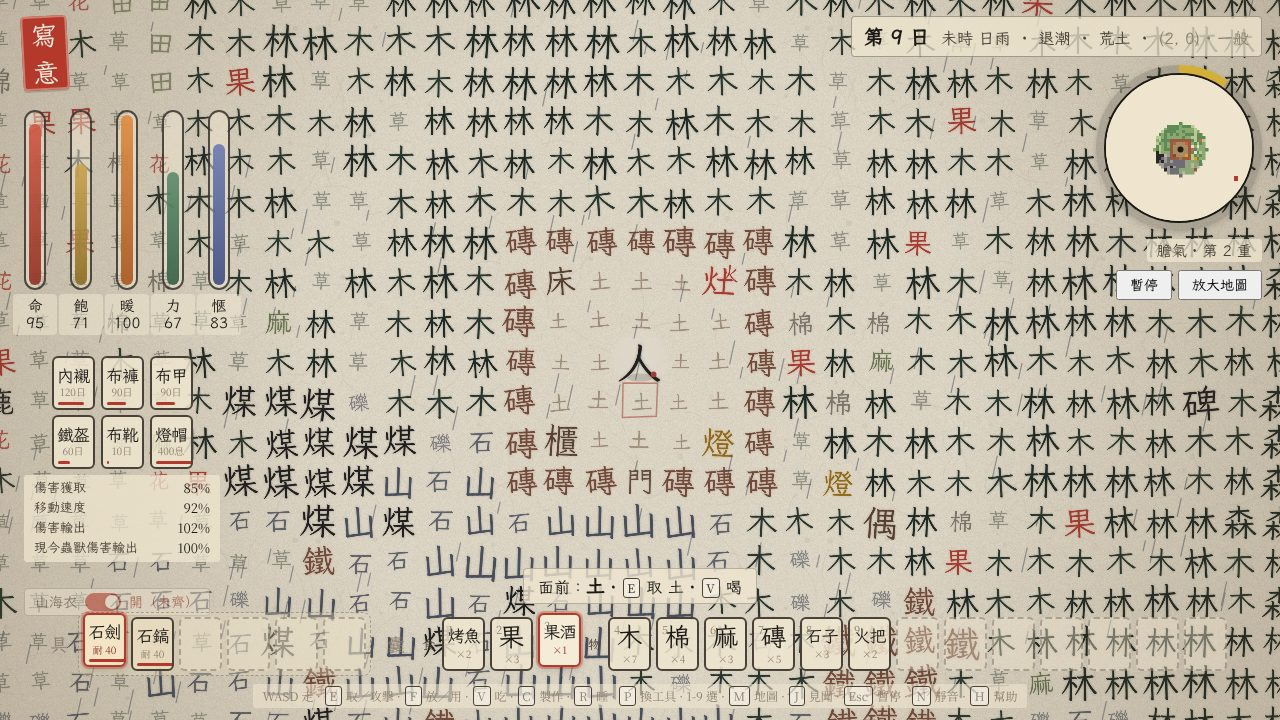
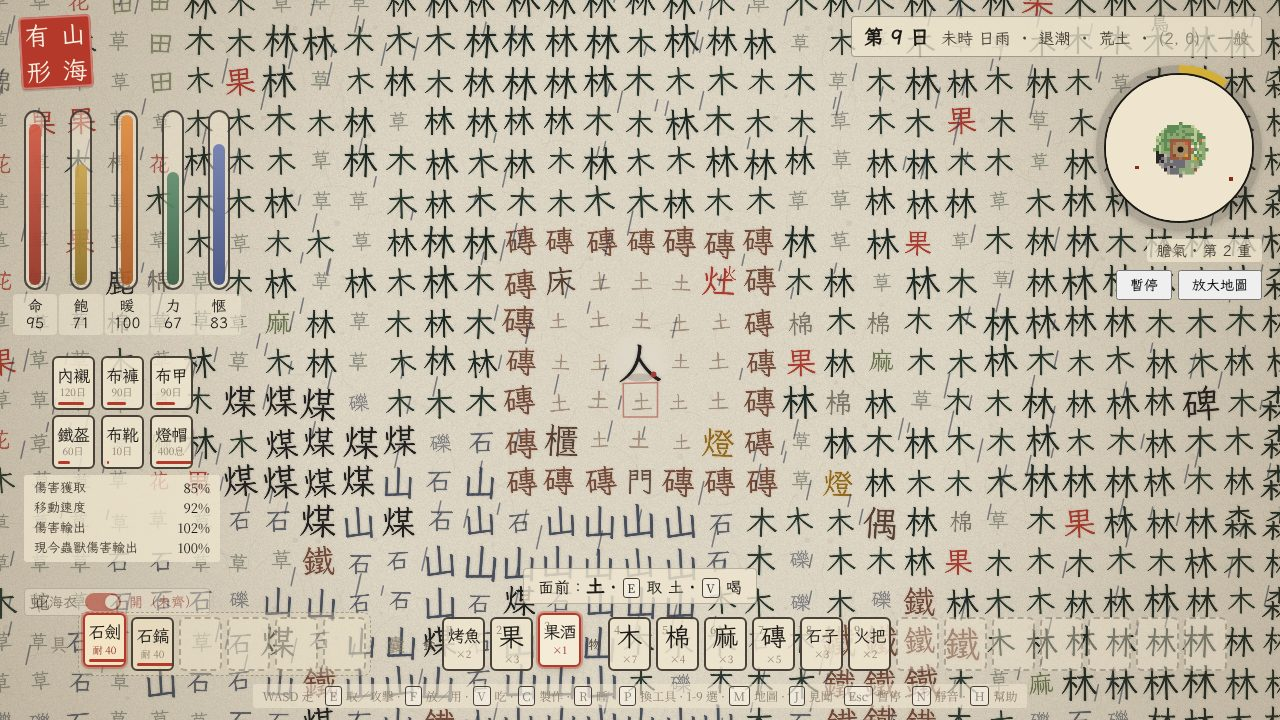
v0.9.7：改名《山海有形》，副標「字裡行間 · 一紙之島」
- 頁面標題、起始頁大字、紅印（四字二乘二，右起直下）、說明標題、開局提示、建置腳本標題全部改名
- 起始頁第一行「字裡行間 · 一紙之島」，標語「寫木為舟 · 寫水成淵」照舊；手機寬度四字標題縮小以免溢出
- README 加拼音與英譯；SPEC §2.2 記下改名理由與「字裡行間」撞名（Steam《字里行间》）的取捨；CLAUDE.md 註明內部識別名維持 xieyi
- 復活點被蓋住或淹了時改找最近能站的地；海上死亡復活的煙霧檢查等到復活完成再判
- 截圖重拍（紅印換新）

Claude-Session: https://claude.ai/code/session_01PaaqwcxLHDEgiAg17vr9bm

diff --git a/style.css b/style.css
@@ -1,4 +1,4 @@
-/* 寫意 —— 界面樣式：宣紙、墨、硃砂印 */
+/* 山海有形 —— 界面樣式：宣紙、墨、硃砂印 */
 :root {
   --paper: #efe5cf; --paper-2: #e6d9bd; --ink: #1c1a17; --ink-2: #4a4238; --dim: #8a7f6c; --red: #b4392a; --red-2: #8f2c20;
   --font: "LXGW WenKai TC", "BiauKai", "DFKai-SB", "標楷體", "Kaiti TC", "Noto Serif TC", "WenQuanYi Zen Hei", serif;
@@ -15,10 +15,15 @@ kbd { display: inline-block; min-width: 1.3em; padding: 0 .3em; border: 1px soli
 #hud > * { pointer-events: auto; }
 
 /* 硃砂印 */
-#seal { position: absolute; left: calc(22px + env(safe-area-inset-left, 0px)); top: calc(16px + env(safe-area-inset-top, 0px)); width: 46px; height: 74px; background: var(--red); color: #f7efe0; border-radius: 4px;
-  display: grid; grid-template-rows: 1fr 1fr; place-items: center; font: 26px/1 var(--font); box-shadow: 0 2px 0 rgba(0,0,0,.15), inset 0 0 0 2px rgba(255,255,255,.35);
+/* 硃砂印：四字二乘二，照印章的讀法右起直下（山海在右，有形在左） */
+#seal { position: absolute; left: calc(20px + env(safe-area-inset-left, 0px)); top: calc(16px + env(safe-area-inset-top, 0px)); width: 72px; height: 72px; background: var(--red); color: #f7efe0; border-radius: 4px;
+  display: grid; grid-template-columns: 1fr 1fr; grid-template-rows: 1fr 1fr; place-items: center; font: 25px/1 var(--font); box-shadow: 0 2px 0 rgba(0,0,0,.15), inset 0 0 0 2px rgba(255,255,255,.35);
   transform: rotate(-3deg); }
 #seal span { line-height: 1; }
+#seal span:nth-child(1) { grid-column: 2; grid-row: 1; }
+#seal span:nth-child(2) { grid-column: 2; grid-row: 2; }
+#seal span:nth-child(3) { grid-column: 1; grid-row: 1; }
+#seal span:nth-child(4) { grid-column: 1; grid-row: 2; }
 
 /* 墨量與生存：幾條豎著的條 */
 #vitals { position: absolute; left: calc(24px + env(safe-area-inset-left, 0px)); top: calc(110px + env(safe-area-inset-top, 0px)); display: flex; gap: 24px; align-items: flex-start; }
@@ -139,6 +144,7 @@ kbd { display: inline-block; min-width: 1.3em; padding: 0 .3em; border: 1px soli
 .panel::before { content: ""; position: absolute; inset: 6px; border: 1px solid rgba(28,26,23,.35); pointer-events: none; }
 .panel h1 { margin: 0; font: 88px/1 var(--font); letter-spacing: .1em; display: flex; gap: .15em; }
 .panel h1 span:first-child { color: var(--red); }
+.panel p.sub.motto { margin-top: -6px; opacity: .72; }
 .panel h2 { margin: 0 0 12px; font: 34px/1.2 var(--font); }
 .panel h3 { margin: 14px 0 6px; font: 20px/1.2 var(--font); color: var(--red-2); }
 .panel p, .panel li { font-size: 15px; line-height: 1.7; margin: 4px 0; }
@@ -155,7 +161,7 @@ kbd { display: inline-block; min-width: 1.3em; padding: 0 .3em; border: 1px soli
 .panel button.ghost { background: transparent; color: var(--ink); }
 .panel button.ghost:hover { color: var(--paper); }
 #help-close { margin-top: 14px; }
-@media (max-width: 720px) { .panel .cols { grid-template-columns: 1fr; } .panel h1 { font-size: 64px; } #ink { display: none; } #keys { display: none; } }
+@media (max-width: 720px) { .panel .cols { grid-template-columns: 1fr; } .panel h1 { font-size: 52px; letter-spacing: .04em; gap: .1em; } #ink { display: none; } #keys { display: none; } }
 
 /* 全島地圖、見聞錄、讀碑 */
 .panel.mapwrap { width: auto; padding: 20px 24px; }

diff --git a/index.html b/index.html
@@ -4,7 +4,7 @@
 <meta charset="utf-8">
 <meta name="viewport" content="width=device-width, initial-scale=1, viewport-fit=cover">
 <meta name="claude:viewport-fit-sides" content="cover">
-<title>寫意 · 一筆一世界</title>
+<title>山海有形 · 字裡行間 · 一紙之島</title>
 <link rel="preconnect" href="https://fonts.googleapis.com">
 <link rel="preconnect" href="https://fonts.gstatic.com" crossorigin>
 <link href="https://fonts.googleapis.com/css2?family=LXGW+WenKai+TC&family=Noto+Serif+TC:wght@400;700&display=swap" rel="stylesheet">
@@ -14,7 +14,7 @@
 <canvas id="world"></canvas>
 
 <div id="hud">
-  <div id="seal" title="寫意：寫木為舟，寫水成淵"><span>寫</span><span>意</span></div>
+  <div id="seal" title="山海有形：字裡行間，一紙之島"><span>山</span><span>海</span><span>有</span><span>形</span></div>
   <div id="vitals">
     <div class="bar hp"><div id="hpfill"></div><span id="hplabel">命</span></div>
     <div class="bar food"><div id="foodfill"></div><span id="foodlabel">飽</span></div>
@@ -45,7 +45,7 @@
 
 <div id="help" class="overlay hidden">
   <div class="panel">
-    <h2>寫意 · 活下去的法子</h2>
+    <h2>山海有形 · 活下去的法子</h2>
     <div class="cols">
       <div>
         <h3>這是什麼</h3>
@@ -166,8 +166,9 @@
 
 <div id="start" class="overlay">
   <div class="panel title">
-    <h1><span>寫</span><span>意</span></h1>
-    <p class="sub">寫木為舟 · 寫水成淵 · 一紙之島</p>
+    <h1><span>山</span><span>海</span><span>有</span><span>形</span></h1>
+    <p class="sub">字裡行間 · 一紙之島</p>
+    <p class="sub motto">寫木為舟 · 寫水成淵</p>
     <p class="lore">鳥棲於山，是為島。一張紙落在海上，紙上的字活了。你是其中的一個「人」，赤手空拳。<br>取木、取棉、取石子；砌磚、造床、磨劍。撐過一夜，再撐過一夜。<br>第十三夜起，魄夜行。這張紙是誰寫的？島上八處地方，各留了一段話。膽氣夠了，就造一艘船離開。</p>
     <div class="row">
       <button id="btn-continue" class="hidden">繼續</button>

diff --git a/src/game.js b/src/game.js
@@ -361,7 +361,9 @@
     respawn() {
       const p = this.player, w = this.world;
       const h = p.home, homeOk = h && w.get(h.x, h.y) === '床';
-      const at = homeOk ? this.freeNear(h.x, h.y) : this.spawn;
+      let at = homeOk ? this.freeNear(h.x, h.y) : this.spawn;
+      const landOk = (x, y) => w.walkable(x, y) && DB[w.get(x, y)].kind !== 'water';
+      if (!landOk(at.x, at.y)) { const t = this.nearestTile(at.x, at.y, landOk, 40); if (t) at = { x: t[0], y: t[1] }; }   // 出生點被蓋住或淹了，就找最近能站的地
       p.x = p.rx = at.x; p.y = p.ry = at.y; p.moveT = 0;
       p.hp = Math.min(p.hpMax, 60); p.food = 60; p.warm = 60; p.sta = p.staMax; p.san = Math.max(p.san, 50); p.cour = Math.floor(p.cour * 0.4); p.decayAt = 0; p.hitWin = { start: -99, n: 0 };
       p.hurtT = 0; p.dead = false; p.warned = {}; p.poisonT = 0; p.poisonPer = 0; p.biteN = 0; p.insane = false; p.ctrl = true; p.zeroSan = 0; p.sailing = false; p.crossed = false;
@@ -1345,7 +1347,7 @@
       window.XIEYI = { game, Game, DAY, DIFF };
       $('start').classList.add('hidden');
       game.paused = false;
-      game.toast('寫意', '取木、取棉、取石子；砌磚、造床、磨劍。第 ' + game.diff.ghost + ' 夜起有魄，備好火把。按 H 看法子。', 7000);
+      game.toast('山海有形', '取木、取棉、取石子；砌磚、造床、磨劍。第 ' + game.diff.ghost + ' 夜起有魄，備好火把。按 H 看法子。', 7000);
       setTimeout(() => { if (game) game.toast('聽說島上有一座塔', '從塔上能看見整張紙。黃昏時跟著鳥走。', 8000); }, 5000);
       window.addEventListener('beforeunload', () => game.save());
       document.addEventListener('visibilitychange', () => { if (document.hidden) game.save(); });

diff --git a/scripts/build-single.py b/scripts/build-single.py
@@ -15,7 +15,7 @@ body = html[html.index('<body>') + 6: html.index('</body>')]
 font_links = '\n'.join(l.strip() for l in head.splitlines() if 'fonts.g' in l)
 body = re.sub(r'<script src="([^"]+)"></script>',
               lambda m: '<script>\n' + (root / m.group(1)).read_text(encoding='utf-8') + '\n</script>', body)
-fragment = ('<title>寫意</title>\n<meta name="claude:viewport-fit-sides" content="cover">\n' + font_links +
+fragment = ('<title>山海有形</title>\n<meta name="claude:viewport-fit-sides" content="cover">\n' + font_links +
             '\n<style>\n' + css + '\n</style>\n' + body.strip() + '\n')
 
 out_dir = root / 'dist'; out_dir.mkdir(exist_ok=True)

diff --git a/docs/SPEC.md b/docs/SPEC.md
@@ -1,15 +1,15 @@
-# 寫意 · 完整規格書（可當重建提示用）
+# 山海有形 · 完整規格書（可當重建提示用）
 
 > 整理日期：2026-10-15。涵蓋到目前為止的全部版本（v0.1 → v0.8，含最後一次「身上衣甲面板」改版）。
 > 用途：把我們在對話裡定下的每一條約定、規則、數值、文案、流程寫成一份文件。照這份文件可以從零把遊戲重建出來，或接著往下做。
 > 數值以這份文件與程式碼為準；手稿或對話裡的示意數字（例如 93%、102%）不是遊戲數值。
-> 2026-10-15 二版：吸收外部規格審查後的修正（見附錄 B）；三版：使用者對待決事項的裁定（山海衣開關、損耗封頂六倍與修補、製作愜意遞減、燈帽蠟燭四百息、龍驅四格）；四版（v0.9）：村七乘七、燈帽戴頭上、三種難度、命與傷害改成幾十幾百、囊分食物兩段與錦囊、同類衣甲一件、鐵褲取消、灶的用法、九閽鳴雷、膽氣圈改金色；五版（v0.9.1）：燈帽三格內有光不耗、鷹與馴鷹、夥伴面板、火把配方、龜與龜卜；六版（v0.9.2）：漁網三級；敵對獸命翻倍、攻擊間隔放慢四分之一；七版（v0.9.3）：鋼具、鎢礦與精煤、鎢鋼具與鎢鋼甲；八版（v0.9.4）：死亡膽氣減六成、耐久對折；鼎與煉丹、丹加命上限；蟾蜍肉分有無毒；九版（v0.9.5）：所有小數數值四捨五入到個位；鼎改鐵三石四鎢鋼一精煤二；製作欄左側分大類；果不分堆、每顆各記日數、先吃陳的；雨天雨夜，屋外的燈每盞每息千五分之一的真隨機機會被澆壞。
+> 2026-10-15 二版：吸收外部規格審查後的修正（見附錄 B）；三版：使用者對待決事項的裁定（山海衣開關、損耗封頂六倍與修補、製作愜意遞減、燈帽蠟燭四百息、龍驅四格）；四版（v0.9）：村七乘七、燈帽戴頭上、三種難度、命與傷害改成幾十幾百、囊分食物兩段與錦囊、同類衣甲一件、鐵褲取消、灶的用法、九閽鳴雷、膽氣圈改金色；五版（v0.9.1）：燈帽三格內有光不耗、鷹與馴鷹、夥伴面板、火把配方、龜與龜卜；六版（v0.9.2）：漁網三級；敵對獸命翻倍、攻擊間隔放慢四分之一；七版（v0.9.3）：鋼具、鎢礦與精煤、鎢鋼具與鎢鋼甲；八版（v0.9.4）：死亡膽氣減六成、耐久對折；鼎與煉丹、丹加命上限；蟾蜍肉分有無毒；九版（v0.9.5）：所有小數數值四捨五入到個位；鼎改鐵三石四鎢鋼一精煤二；製作欄左側分大類；果不分堆、每顆各記日數、先吃陳的；改名《山海有形》；雨天雨夜，屋外的燈每盞每息千五分之一的真隨機機會被澆壞。
 
 ---
 
 ## 0. 一句話
 
-《寫意》是一個**由漢字構成的 2D 開放世界生存沙盒**：一張紙落在海上，紙上的字活了；你是其中一個「人」字。取木、取棉、取石子；砌磚、造床、磨劍；蛇在草木之交，豹狼在林與夜；第十三夜起，怕光穿牆的「魄」夜行。命、飽、暖、力、愜意五條數值加「膽氣」；膽氣八重造大船渡海，十重五件衣甲穿齊便是「山海衣」。純瀏覽器單頁、零依賴、全繁體（台灣用語）、水墨紙本美術。
+《山海有形》（舊名《寫意》）是一個**由漢字構成的 2D 開放世界生存沙盒**：一張紙落在海上，紙上的字活了；你是其中一個「人」字。取木、取棉、取石子；砌磚、造床、磨劍；蛇在草木之交，豹狼在林與夜；第十三夜起，怕光穿牆的「魄」夜行。命、飽、暖、力、愜意五條數值加「膽氣」；膽氣八重造大船渡海，十重五件衣甲穿齊便是「山海衣」。純瀏覽器單頁、零依賴、全繁體（台灣用語）、水墨紙本美術。
 
 ---
 
@@ -58,6 +58,7 @@
 | v0.8 | 五件衣甲與損耗、山海衣取代圖騰衣、煤層鐵礦與煉鐵、死落荷包；身上面板照手稿改成上三下二加四行數值。 |
 
 ### 2.2 關鍵決策與理由
+- **為什麼改名《山海有形》**：「寫意」是最初組字造詞版本的名字（寫出意思），機制拿掉後只剩畫論裡「寫意」的第二層意思撐著，調性偏閒適、辨識度低、不說類型。「山海有形」三層意思：山就是「山」字、水就是「水」字，山海有形是因為象形字有形；《山海經》本來就是用文字替山海造形，山海衣、獸群、魄都接得上；又翻了老子「大象無形」。「字裡行間」意象最貼（玩家就住在一行行的字之間，「行」又讀作行走），但 Steam 已有漢字解謎《字里行间》Between the Lines，同題材撞名，所以降為副標：起始頁第一行「字裡行間 · 一紙之島」，標語「寫木為舟 · 寫水成淵」照舊。內部識別名（存檔鍵、檔名、全域變數、分支）維持 xieyi。
 - **為什麼不靠組字造詞推進**：開放世界裡「組出有效的詞」缺少明確目標，玩家摸不到進度；改成「採集、製作、避難、探索」的循環，組字只留在美術與世界觀。
 - **侵權考量**：Steam 上的《文字遊戲》是關卡制解謎；本作是開放世界生存，只共用「漢字構成世界」這個不受保護的點子，表達（美術、文案、機制、關卡內容）全部自創，不引用其謎題與文字。生存循環參考 Minecraft／飢荒屬玩法慣例，不構成侵權。
 - **擋路靠格子本身**：獸的 `canStand` 不能站上 walk 為 0 的格（磚）、門、屋內、稻草人範圍，一圈磚加一扇門就是避難所，不另判「封閉」。
@@ -519,7 +520,7 @@
 ## 7. 介面與操作
 
 ### 7.1 版面
-- **左上**：紅印「寫意」。其下五條直立數值條（命紅、飽黃、暖橙、力綠、愜藍），填充上下留邊一致，標籤兩行（字、數值）。再下是**身上面板**：上排襯褲甲、下排盔靴，各格名字加「N日」與耐久細線；下方四行：傷害獲取、移動速度、傷害輸出、現今蟲獸傷害輸出。
+- **左上**：紅印「山海有形」，四字二乘二，照印章讀法右起直下（山海在右、有形在左）。其下五條直立數值條（命紅、飽黃、暖橙、力綠、愜藍），填充上下留邊一致，標籤兩行（字、數值）。再下是**身上面板**：上排襯褲甲、下排盔靴，各格名字加「N日」與耐久細線；下方四行：傷害獲取、移動速度、傷害輸出、現今蟲獸傷害輸出。
 - **右上**：狀態列（第幾日、時辰、日／月、第幾夜與「魄夜」、潮汐、所在地名、座標）；圓形小地圖 150px，外圈紅弧為膽氣進度；標籤「膽氣 · 第 X 重」；卅一重以上的衰減倒數；「暫停」「放大地圖」兩個鈕（點小地圖也放大）。
 - **下方**：提示列（面前是什麼、能做什麼、各種回饋訊息）；一列「具」六格具欄 ＋「囊」十六格；最底一行按鍵說明。
 - **中央上方**：提示卡（toast）。
@@ -546,7 +547,7 @@
 | 滑鼠 | 左鍵對相鄰格＝E，右鍵＝F；點囊格選中（工具則移進具欄）；點具欄格手持／空手、右鍵移回囊；點身上格脫下；櫃面板點一下搬整疊 |
 
 ### 7.3 面板與覆蓋層
-起始頁（題句「寫木為舟 · 寫水成淵 · 一紙之島」、島號輸入、繼續／新島、幫助）、幫助、製作、大地圖、見聞錄、讀（碑／地標全文）、櫃、昏迷、渡海、暫停、死亡。
+起始頁（大字「山海有形」、第一行「字裡行間 · 一紙之島」、題句「寫木為舟 · 寫水成淵」、島號輸入、繼續／新島、幫助）、幫助、製作、大地圖、見聞錄、讀（碑／地標全文）、櫃、昏迷、渡海、暫停、死亡。
 
 ### 7.4 小地圖顏色要點
 水藍、淼深藍、沙米、草綠、林森深綠、山灰、雪白、磚褐、床、燈、橋、漁、麻、偶、櫃、舟、包（黑）、煤（黑）、鐵（鏽褐）；虎豹狼蛇紅點、魄暗紫點、玩家白點。

diff --git a/CLAUDE.md b/CLAUDE.md
@@ -1,4 +1,6 @@
-# 寫意 · 專案約定
+# 山海有形 · 專案約定
+
+標題《山海有形》，起始頁第一行「字裡行間 · 一紙之島」，標語「寫木為舟 · 寫水成淵」。舊名「寫意」只留在內部識別名（存檔鍵 `xieyi.*`、`dist/xieyi.html`、`window.XIEYI`、分支名），不要改，改了舊存檔讀不到。
 
 由漢字構成的生存與探索沙盒：收集、製作、砌牆；蛇蛛蟾豹狼、半友好可馴的鷹、少見的龜；第十三夜起怕光穿牆的魄；雨天雨夜會澆壞屋外的燈（屋裡不怕）；命飽暖力愜六條數值加膽氣；膽氣八重造船渡海，十重五件衣甲穿齊即山海衣，卅一重可鑄九閽鳴雷；山有煤鐵，鐵可打甲、鍛鋼具；鐵礦脈三十分之一出鎢礦，精煤煉鎢鋼，鎢鋼具與甲更強；錦囊擴囊；棉麻草織漁網，四小成中、四中或十三小成大；三種難度；死落荷包（膽氣減六成、耐久對折）；鼎煉丹加命上限；野果不分堆、每顆各記日數、先吃陳的。純瀏覽器單頁，零依賴，全繁體。
 

diff --git a/README.md b/README.md
@@ -1,4 +1,7 @@
-# 寫意 · Xiěyì
+# 山海有形 · Shanhai Youxing
+
+> 字裡行間 · 一紙之島　　寫木為舟 · 寫水成淵
+> *Where Mountains and Seas Take Form.* 舊名「寫意」是組字造詞時代的名字；改名的來由見 `docs/SPEC.md` §2.2。
 
 > 鳥棲於山，是為島。一張紙落在海上，紙上的字活了。
 
